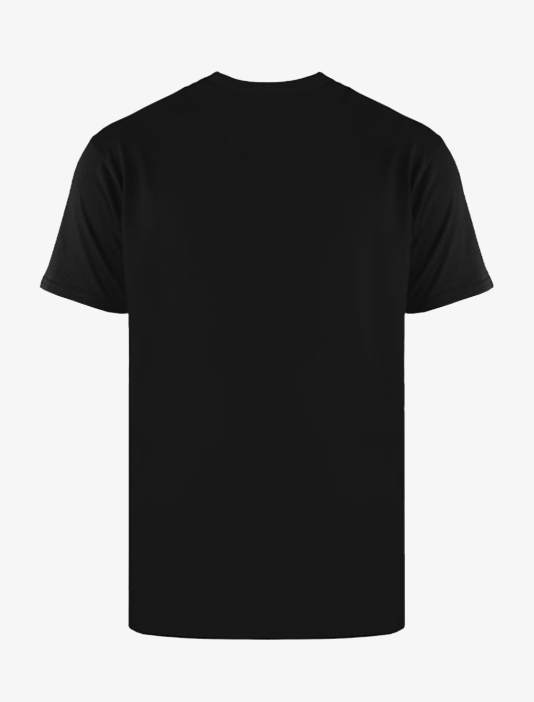
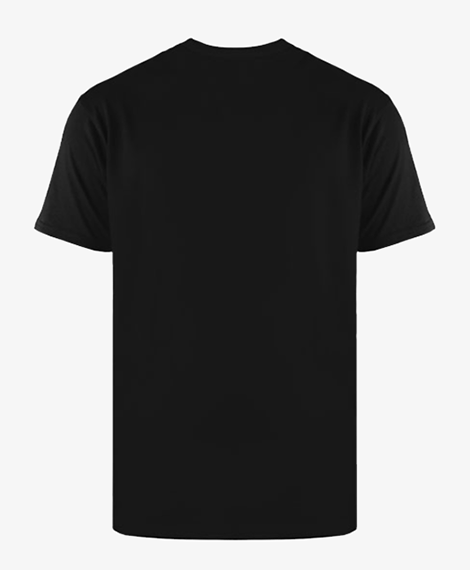
This should've fixed it
This should've fixed it

diff --git a/product/pestlesilhouettetshirtstyle1.html b/product/pestlesilhouettetshirtstyle1.html
@@ -364,7 +364,7 @@ td, th{
     }else if(i == 1)
     {
       
-      Image.src = "../Images/PestleSilhouetteBack.png";
+      Image.src = "../Images/PestleSilhouetteBack.PNG";
     }else if(i == 2)
     {
       Image.src = "../Images/NicDevDoodleTshirtRealFront.png";

diff --git a/product/pestlesilhouettetshirtstyle2.html b/product/pestlesilhouettetshirtstyle2.html
@@ -364,7 +364,7 @@ td, th{
     }else if(i == 1)
     {
       
-      Image.src = "../Images/PestleSilhouetteBack.png";
+      Image.src = "../Images/PestleSilhouetteBack.PNG";
     }else if(i == 2)
     {
       Image.src = "../Images/NicDevDoodleTshirtRealFront.png";
